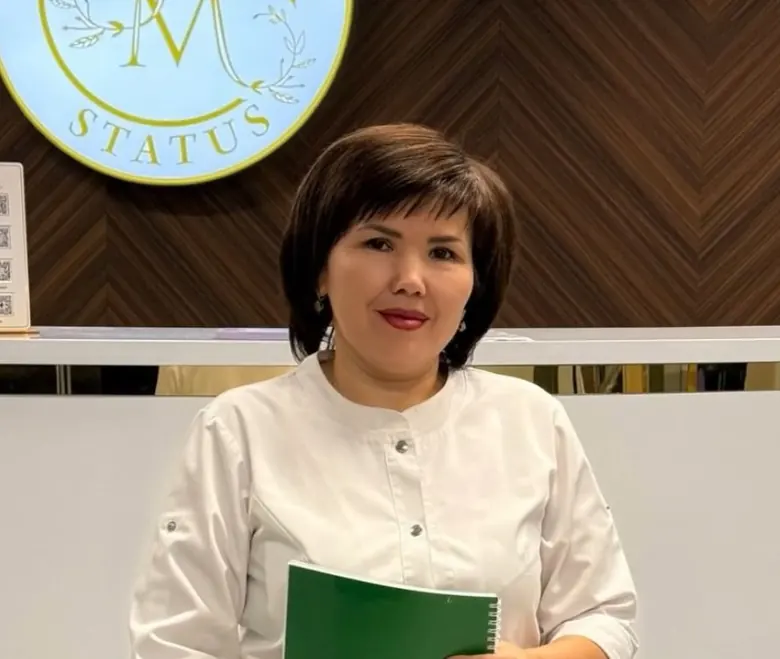
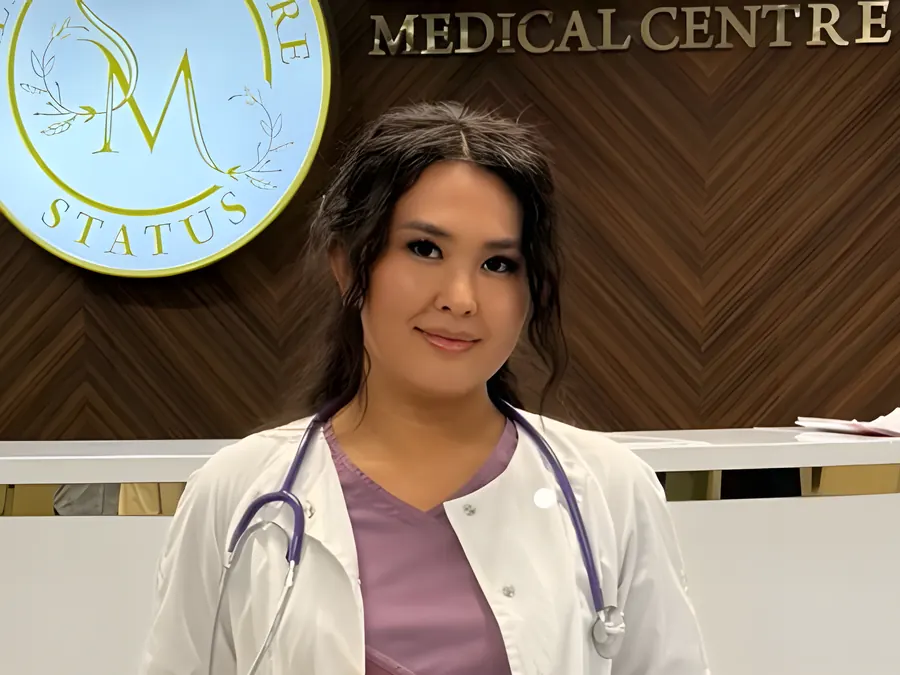
Герой главной про клинику: медицинский центр Status, размеры под высоту экрана, новое фото

diff --git a/index.html b/index.html
@@ -25,7 +25,7 @@
 <link rel="preconnect" href="https://fonts.googleapis.com">
 <link rel="preconnect" href="https://fonts.gstatic.com" crossorigin>
 <link href="https://fonts.googleapis.com/css2?family=Onest:wght@300;400;500;600&display=swap" rel="stylesheet">
-<link rel="stylesheet" href="styles.css?v=20261106-34">
+<link rel="stylesheet" href="styles.css?v=20261106-38">
 <script type="application/ld+json">
 {
  "@context": "https://schema.org",
@@ -131,23 +131,23 @@
 <section class="hero hero-chk on-dark">
   <picture class="hc-photo">
     <source media="(max-width:860px)" srcset="assets/photos/hero-doc-m.webp">
-    <img src="assets/photos/hero-doc.webp" alt="Елеубекова Асем Емелбековна, главный врач, кардиолог Status Medical Center" width="962" height="1202" fetchpriority="high" decoding="async">
+    <img src="assets/photos/hero-doc.webp" alt="Врач Status Medical Center у стойки регистрации с логотипом центра" width="1000" height="1250" fetchpriority="high" decoding="async">
   </picture>
   <div class="hc-shade"></div>
   <svg class="hc-ecg" viewBox="0 0 1200 120" preserveAspectRatio="none" aria-hidden="true"><path class="bg" d="M0 70 H330 l18 -8 l14 8 h40 l12 -48 l16 92 l14 -60 l10 16 h60 l22 -10 l20 10 H760 l18 -8 l14 8 h40 l12 -48 l16 92 l14 -60 l10 16 h60 l22 -10 l20 10 H1200"/><path class="fg" d="M0 70 H330 l18 -8 l14 8 h40 l12 -48 l16 92 l14 -60 l10 16 h60 l22 -10 l20 10 H760 l18 -8 l14 8 h40 l12 -48 l16 92 l14 -60 l10 16 h60 l22 -10 l20 10 H1200"/></svg>
   <div class="wrap hc-grid">
     <div class="hero-text">
-      <span class="kicker" data-i18n="h.kicker">Медицинский центр · Усть-Каменогорск</span>
-      <h1 class="split" data-i18n="h.h1">Чек-ап организма <em>за&nbsp;один день</em></h1>
-      <p class="hc-price" data-i18n="h.price">от&nbsp;25&nbsp;000&nbsp;₸ · врачи, УЗИ и&nbsp;анализы в&nbsp;одном здании</p>
+      <span class="kicker" data-i18n="h.kicker">Усть-Каменогорск · ул. Кокжал Барака, 19</span>
+      <h1 class="split" data-i18n="h.h1">Медицинский центр <em>Status</em></h1>
+      <p class="hc-price" data-i18n="h.price">Многопрофильная клиника в Усть-Каменогорске: врачи 27&nbsp;специальностей, диагностика, операционный блок и дневной стационар - в одном здании.</p>
       <ul class="hc-list">
-        <li><svg viewBox="0 0 24 24" width="18" height="18" fill="none" stroke="currentColor" stroke-width="2.6" aria-hidden="true"><path d="M5 12.5l4.5 4.5L19 7.5"/></svg><span data-i18n="h.b1">Состав и цена каждой программы открыты</span></li>
-        <li><svg viewBox="0 0 24 24" width="18" height="18" fill="none" stroke="currentColor" stroke-width="2.6" aria-hidden="true"><path d="M5 12.5l4.5 4.5L19 7.5"/></svg><span data-i18n="h.b2">ЭКГ и биометрия - в подарок к программе</span></li>
-        <li><svg viewBox="0 0 24 24" width="18" height="18" fill="none" stroke="currentColor" stroke-width="2.6" aria-hidden="true"><path d="M5 12.5l4.5 4.5L19 7.5"/></svg><span data-i18n="h.b3">Kaspi рассрочка 0-3-6-12&nbsp;месяцев</span></li>
+        <li><svg viewBox="0 0 24 24" width="18" height="18" fill="none" stroke="currentColor" stroke-width="2.6" aria-hidden="true"><path d="M5 12.5l4.5 4.5L19 7.5"/></svg><span data-i18n="h.b1">Два УЗИ-аппарата экспертного класса и видеоэндоскопия</span></li>
+        <li><svg viewBox="0 0 24 24" width="18" height="18" fill="none" stroke="currentColor" stroke-width="2.6" aria-hidden="true"><path d="M5 12.5l4.5 4.5L19 7.5"/></svg><span data-i18n="h.b2">Свой операционный блок и дневной стационар</span></li>
+        <li><svg viewBox="0 0 24 24" width="18" height="18" fill="none" stroke="currentColor" stroke-width="2.6" aria-hidden="true"><path d="M5 12.5l4.5 4.5L19 7.5"/></svg><span data-i18n="h.b3">Рейтинг 4,3 в 2ГИС - 384 оценки</span></li>
       </ul>
       <div class="hero-btns">
-        <a class="btn gold wa" href="https://wa.me/77052221462" data-wa="Здравствуйте. Хочу записаться на чек-ап. Подскажите ближайшую дату."><svg class="ic" aria-hidden="true"><use href="#ic-wa"/></svg><span data-i18n="h.btn5">Записаться на чек-ап</span></a>
-        <a class="btn ghost" href="#chekap" data-i18n="h.btn6">Все программы и цены</a>
+        <a class="btn gold wa" href="https://wa.me/77052221462" data-wa="Здравствуйте. Хочу записаться в Status Medical Center."><svg class="ic" aria-hidden="true"><use href="#ic-wa"/></svg><span data-i18n="h.btn1">Записаться в WhatsApp</span></a>
+        <a class="btn ghost" href="#napravleniya" data-i18n="h.btn7">Направления и цены</a>
       </div>
       <a class="hero-ig link" href="https://www.instagram.com/status_medical_center" target="_blank" rel="noopener"><svg class="ic" aria-hidden="true"><use href="#ic-ig"/></svg><span data-i18n="h.ig">Клиника и врачи в Instagram →</span></a>
     </div>
@@ -155,54 +155,10 @@
 
   <div class="hc-side">
     <div class="hc-stack" id="hcStack">
-      <span class="hc-stack-k" data-i18n="h.stk">Программы чек-апа</span>
-      <ol><li><a href="#chekap"><span data-i18n="c.1t">«Здоровое сердце» за 1 день</span><b class="num">25&nbsp;000&nbsp;₸</b></a></li><li><a href="#chekap"><span data-i18n="c.2t">«Щитовидка без тревог»</span><b class="num">47&nbsp;400&nbsp;₸</b></a></li><li><a href="#chekap"><span data-i18n="c.3t">Check-up Гастро</span><b class="num">73&nbsp;620&nbsp;₸</b></a></li><li><a href="#chekap"><span data-i18n="c.4t">Check-up Детский</span><b class="num">107&nbsp;780&nbsp;₸</b></a></li><li><a href="#chekap"><span data-i18n="c.5t">«В здоровом теле - здоровый дух», для женщин</span><b class="num">156&nbsp;100&nbsp;₸</b></a></li><li><a href="#chekap"><span data-i18n="c.6t">«В здоровом теле - здоровый дух», для мужчин</span><b class="num">186&nbsp;900&nbsp;₸</b></a></li></ol>
+      <span class="hc-stack-k" data-i18n="h.stk2">В центре</span>
+      <ol><li><a href="#priem"><span data-i18n="d.1t">Приём специалистов</span><b class="num" data-i18n="d.1p">от&nbsp;8&nbsp;000&nbsp;₸</b></a></li><li><a href="#uzi"><span data-i18n="d.2t">УЗИ</span><b class="num" data-i18n="d.2p">от&nbsp;4&nbsp;000&nbsp;₸</b></a></li><li><a href="#diagnostika"><span data-i18n="d.3t">Функциональная диагностика</span><b class="num" data-i18n="d.3p">от&nbsp;3&nbsp;000&nbsp;₸</b></a></li><li><a href="#endoskopiya"><span data-i18n="d.4t">Эндоскопия</span><b class="num" data-i18n="d.4p">от&nbsp;21&nbsp;000&nbsp;₸</b></a></li><li><a href="#stacionar"><span data-i18n="d.12t">Дневной стационар</span><b class="num">5&nbsp;000-25&nbsp;000&nbsp;₸</b></a></li><li><a href="plastika/"><span data-i18n="d.9t">Пластическая хирургия</span><b class="num" data-i18n="d.9p">от&nbsp;150&nbsp;000&nbsp;₸</b></a></li><li><a href="pohudenie/"><span data-i18n="d.10t">Программа снижения веса</span><b class="num" data-i18n="d.10p">от&nbsp;55&nbsp;000&nbsp;₸</b></a></li></ol>
     </div>
-    <span class="hc-tag" data-i18n="h.tag">Елеубекова А.&nbsp;Е., главный врач, кардиолог</span>
-  </div>
-</section>
-
-<!-- ЧЕК-АП -->
-<section class="sec stone" id="chekap">
-  <div class="wrap">
-    <div class="sec-head rv">
-      <span class="kicker" data-i18n="c.k">Чек-ап</span>
-      <h2 data-i18n="c.h2">Чек-ап программы: обследование <em>за один визит</em></h2>
-      <p class="lead" data-i18n="c.lead">Состав и цена каждой программы открыты. ЭКГ и биометрия - в подарок к программе. Подготовка: ужин накануне до&nbsp;20:00, утром натощак, без алкоголя за сутки.</p>
-    </div>
-    <div class="g3">
-      <article class="room-card hi" id="serdce"><div class="wall"></div><i class="door"></i>
-        <div class="card-top"><h3 data-i18n="c.1t">«Здоровое сердце» за 1 день</h3><span class="price num">25&nbsp;000&nbsp;₸</span></div>
-        <ul class="compose one"><li data-i18n="c.1a">Консультация кардиолога</li><li data-i18n="c.1b">УЗИ сердца</li><li data-i18n="c.1c">ЭКГ</li></ul>
-        <a class="btn gold wa sm" href="https://wa.me/77052221462" data-wa="Здравствуйте. Хочу записаться на чек-ап «Здоровое сердце за 1 день». Подскажите ближайшую дату."><svg class="ic" aria-hidden="true"><use href="#ic-wa"/></svg><span data-i18n="c.btn">Записаться на чек-ап</span></a>
-      </article>
-      <article class="room-card"><div class="wall"></div><i class="door"></i>
-        <div class="card-top"><h3 data-i18n="c.2t">«Щитовидка без тревог»</h3><span class="price num">47&nbsp;400&nbsp;₸</span></div>
-        <ul class="compose"><li data-i18n="c.2a">Первичный прием эндокринолога</li><li data-i18n="c.2b">УЗИ щитовидной железы</li><li data-i18n="c.2c">Биометрия</li><li data-i18n="c.2d">Тиреотропного гормона (ТТГ)</li><li data-i18n="c.2e">Свободный тироксин (FT4)</li><li data-i18n="c.2f">Антитела к тиреопероксидазе (Анти-ТПО)</li><li data-i18n="c.2g">Ферритин</li><li data-i18n="c.2h">Клинический анализ крови с лейкоцитарной формулой и измерением скорости оседания эритроцитов (ОАК + СОЭ)</li><li data-i18n="c.2i">25-OH витамин D</li><li data-i18n="c.2j">Забор крови</li><li data-i18n="c.2k">ЭКГ</li></ul>
-        <a class="btn wa sm" href="https://wa.me/77052221462" data-wa="Здравствуйте. Хочу записаться на чек-ап «Щитовидка без тревог». Подскажите ближайшую дату."><svg class="ic" aria-hidden="true"><use href="#ic-wa"/></svg><span data-i18n="c.btn">Записаться на чек-ап</span></a>
-      </article>
-      <article class="room-card"><div class="wall"></div><i class="door"></i>
-        <div class="card-top"><h3 data-i18n="c.3t">Check-up Гастро</h3><span class="price num">73&nbsp;620&nbsp;₸</span></div>
-        <ul class="compose"><li data-i18n="c.3a">УЗИ органов брюшной полости (комплекс)</li><li data-i18n="c.3b">ФГДС</li><li data-i18n="c.3c">Первичный прием гастроэнтеролога</li><li data-i18n="c.3d">Первичный прием терапевта</li><li data-i18n="c.3e">Развёрнутый общий анализ крови с СОЭ</li><li data-i18n="c.3f">Аланинаминотрансфераза (АЛТ)</li><li data-i18n="c.3g">АСТ</li><li data-i18n="c.3h">Общий билирубин</li><li data-i18n="c.3i">Щелочная фосфотаза</li><li data-i18n="c.3j">Общая альфа-амилаза</li><li data-i18n="c.3k">Липаза</li><li data-i18n="c.3l">Хеликобактер при ФГДС</li><li data-i18n="c.3m">Забор крови</li><li data-i18n="c.3n">Глюкоза (сахар крови)</li><li data-i18n="c.3o">Биометрия</li></ul>
-        <a class="btn wa sm" href="https://wa.me/77052221462" data-wa="Здравствуйте. Хочу записаться на чек-ап «Check-up Гастро». Подскажите ближайшую дату."><svg class="ic" aria-hidden="true"><use href="#ic-wa"/></svg><span data-i18n="c.btn">Записаться на чек-ап</span></a>
-      </article>
-      <article class="room-card"><div class="wall"></div><i class="door"></i>
-        <div class="card-top"><h3 data-i18n="c.4t">Check-up Детский</h3><span class="price num">107&nbsp;780&nbsp;₸</span></div>
-        <ul class="compose"><li data-i18n="c.4a">ОАК с СОЭ</li><li data-i18n="c.4b">ОАМ</li><li data-i18n="c.4c">Ферритин</li><li data-i18n="c.4d">Забор крови</li><li data-i18n="c.4e">25 ОН Витамин D</li><li data-i18n="c.4f">ТТГ</li><li data-i18n="c.4g">УЗИ ОБП</li><li data-i18n="c.4h">УЗИ щитовидной железы</li><li data-i18n="c.4i">1 прием лора</li><li data-i18n="c.4j">1 прием детского хирурга</li><li data-i18n="c.4k">1 прием детского гинеколога/уролога</li><li data-i18n="c.4l">1 прием логопеда</li><li data-i18n="c.4m">ЭКГ</li><li data-i18n="c.4n">Педиатр</li><li data-i18n="c.4o">Педиатр повторный прием</li><li data-i18n="c.4p">1 прием эндокринолога</li><li data-i18n="c.4q">Биометрия</li></ul>
-        <a class="btn wa sm" href="https://wa.me/77052221462" data-wa="Здравствуйте. Хочу записаться на чек-ап «Check-up Детский». Подскажите ближайшую дату."><svg class="ic" aria-hidden="true"><use href="#ic-wa"/></svg><span data-i18n="c.btn">Записаться на чек-ап</span></a>
-      </article>
-      <article class="room-card"><div class="wall"></div><i class="door"></i>
-        <div class="card-top"><h3 data-i18n="c.5t">«В здоровом теле - здоровый дух», для женщин</h3><span class="price num">156&nbsp;100&nbsp;₸</span></div>
-        <ul class="compose"><li data-i18n="c.5a">Эхо-КГ</li><li data-i18n="c.5b">УЗДГ БЦА</li><li data-i18n="c.5c">УЗИ брюшной полости, малого таза, молочных и щитовидной желёз</li><li data-i18n="c.5d">ФГДС с определением Helicobacter</li><li data-i18n="c.5e">Анализы</li><li data-i18n="c.5f">Консультации гинеколога, невролога, онколога-маммолога, эндокринолога, терапевта</li><li data-i18n="c.5g">ЭКГ и биометрия в подарок</li></ul>
-        <a class="btn wa sm" href="https://wa.me/77052221462" data-wa="Здравствуйте. Хочу записаться на чек-ап «В здоровом теле - здоровый дух, для женщин». Подскажите ближайшую дату."><svg class="ic" aria-hidden="true"><use href="#ic-wa"/></svg><span data-i18n="c.btn">Записаться на чек-ап</span></a>
-      </article>
-      <article class="room-card"><div class="wall"></div><i class="door"></i>
-        <div class="card-top"><h3 data-i18n="c.6t">«В здоровом теле - здоровый дух», для мужчин</h3><span class="price num">186&nbsp;900&nbsp;₸</span></div>
-        <ul class="compose"><li data-i18n="c.6a">Тот же состав, вместо гинеколога и маммолога - УЗИ простаты, ПСА, консультации уролога и хирурга</li><li data-i18n="c.5g">ЭКГ и биометрия в подарок</li></ul>
-        <a class="btn wa sm" href="https://wa.me/77052221462" data-wa="Здравствуйте. Хочу записаться на чек-ап «В здоровом теле - здоровый дух, для мужчин». Подскажите ближайшую дату."><svg class="ic" aria-hidden="true"><use href="#ic-wa"/></svg><span data-i18n="c.btn">Записаться на чек-ап</span></a>
-      </article>
-    </div>
-    <p class="note" data-i18n="c.note">Платные программы - для неприкреплённого населения. Прикреплённые пациенты обслуживаются по ОСМС и ГОБМП.</p>
+    <span class="hc-tag" data-i18n="h.tag">Кенесова Мөлдір Қайратқызы, эндокринолог</span>
   </div>
 </section>
 
@@ -299,6 +255,50 @@
         <a class="btn sm wa" href="https://wa.me/77052221462" data-wa="Здравствуйте. Хочу записаться: дневной стационар. Подскажите свободное время."><svg class="ic" aria-hidden="true"><use href="#ic-wa"/></svg><span data-i18n="d.btn">Записаться</span></a>
       </article>
     </div>
+  </div>
+</section>
+
+<!-- ЧЕК-АП -->
+<section class="sec stone" id="chekap">
+  <div class="wrap">
+    <div class="sec-head rv">
+      <span class="kicker" data-i18n="c.k">Чек-ап</span>
+      <h2 data-i18n="c.h2">Чек-ап программы: обследование <em>за один визит</em></h2>
+      <p class="lead" data-i18n="c.lead">Состав и цена каждой программы открыты. ЭКГ и биометрия - в подарок к программе. Подготовка: ужин накануне до&nbsp;20:00, утром натощак, без алкоголя за сутки.</p>
+    </div>
+    <div class="g3">
+      <article class="room-card hi" id="serdce"><div class="wall"></div><i class="door"></i>
+        <div class="card-top"><h3 data-i18n="c.1t">«Здоровое сердце» за 1 день</h3><span class="price num">25&nbsp;000&nbsp;₸</span></div>
+        <ul class="compose one"><li data-i18n="c.1a">Консультация кардиолога</li><li data-i18n="c.1b">УЗИ сердца</li><li data-i18n="c.1c">ЭКГ</li></ul>
+        <a class="btn gold wa sm" href="https://wa.me/77052221462" data-wa="Здравствуйте. Хочу записаться на чек-ап «Здоровое сердце за 1 день». Подскажите ближайшую дату."><svg class="ic" aria-hidden="true"><use href="#ic-wa"/></svg><span data-i18n="c.btn">Записаться на чек-ап</span></a>
+      </article>
+      <article class="room-card"><div class="wall"></div><i class="door"></i>
+        <div class="card-top"><h3 data-i18n="c.2t">«Щитовидка без тревог»</h3><span class="price num">47&nbsp;400&nbsp;₸</span></div>
+        <ul class="compose"><li data-i18n="c.2a">Первичный прием эндокринолога</li><li data-i18n="c.2b">УЗИ щитовидной железы</li><li data-i18n="c.2c">Биометрия</li><li data-i18n="c.2d">Тиреотропного гормона (ТТГ)</li><li data-i18n="c.2e">Свободный тироксин (FT4)</li><li data-i18n="c.2f">Антитела к тиреопероксидазе (Анти-ТПО)</li><li data-i18n="c.2g">Ферритин</li><li data-i18n="c.2h">Клинический анализ крови с лейкоцитарной формулой и измерением скорости оседания эритроцитов (ОАК + СОЭ)</li><li data-i18n="c.2i">25-OH витамин D</li><li data-i18n="c.2j">Забор крови</li><li data-i18n="c.2k">ЭКГ</li></ul>
+        <a class="btn wa sm" href="https://wa.me/77052221462" data-wa="Здравствуйте. Хочу записаться на чек-ап «Щитовидка без тревог». Подскажите ближайшую дату."><svg class="ic" aria-hidden="true"><use href="#ic-wa"/></svg><span data-i18n="c.btn">Записаться на чек-ап</span></a>
+      </article>
+      <article class="room-card"><div class="wall"></div><i class="door"></i>
+        <div class="card-top"><h3 data-i18n="c.3t">Check-up Гастро</h3><span class="price num">73&nbsp;620&nbsp;₸</span></div>
+        <ul class="compose"><li data-i18n="c.3a">УЗИ органов брюшной полости (комплекс)</li><li data-i18n="c.3b">ФГДС</li><li data-i18n="c.3c">Первичный прием гастроэнтеролога</li><li data-i18n="c.3d">Первичный прием терапевта</li><li data-i18n="c.3e">Развёрнутый общий анализ крови с СОЭ</li><li data-i18n="c.3f">Аланинаминотрансфераза (АЛТ)</li><li data-i18n="c.3g">АСТ</li><li data-i18n="c.3h">Общий билирубин</li><li data-i18n="c.3i">Щелочная фосфотаза</li><li data-i18n="c.3j">Общая альфа-амилаза</li><li data-i18n="c.3k">Липаза</li><li data-i18n="c.3l">Хеликобактер при ФГДС</li><li data-i18n="c.3m">Забор крови</li><li data-i18n="c.3n">Глюкоза (сахар крови)</li><li data-i18n="c.3o">Биометрия</li></ul>
+        <a class="btn wa sm" href="https://wa.me/77052221462" data-wa="Здравствуйте. Хочу записаться на чек-ап «Check-up Гастро». Подскажите ближайшую дату."><svg class="ic" aria-hidden="true"><use href="#ic-wa"/></svg><span data-i18n="c.btn">Записаться на чек-ап</span></a>
+      </article>
+      <article class="room-card"><div class="wall"></div><i class="door"></i>
+        <div class="card-top"><h3 data-i18n="c.4t">Check-up Детский</h3><span class="price num">107&nbsp;780&nbsp;₸</span></div>
+        <ul class="compose"><li data-i18n="c.4a">ОАК с СОЭ</li><li data-i18n="c.4b">ОАМ</li><li data-i18n="c.4c">Ферритин</li><li data-i18n="c.4d">Забор крови</li><li data-i18n="c.4e">25 ОН Витамин D</li><li data-i18n="c.4f">ТТГ</li><li data-i18n="c.4g">УЗИ ОБП</li><li data-i18n="c.4h">УЗИ щитовидной железы</li><li data-i18n="c.4i">1 прием лора</li><li data-i18n="c.4j">1 прием детского хирурга</li><li data-i18n="c.4k">1 прием детского гинеколога/уролога</li><li data-i18n="c.4l">1 прием логопеда</li><li data-i18n="c.4m">ЭКГ</li><li data-i18n="c.4n">Педиатр</li><li data-i18n="c.4o">Педиатр повторный прием</li><li data-i18n="c.4p">1 прием эндокринолога</li><li data-i18n="c.4q">Биометрия</li></ul>
+        <a class="btn wa sm" href="https://wa.me/77052221462" data-wa="Здравствуйте. Хочу записаться на чек-ап «Check-up Детский». Подскажите ближайшую дату."><svg class="ic" aria-hidden="true"><use href="#ic-wa"/></svg><span data-i18n="c.btn">Записаться на чек-ап</span></a>
+      </article>
+      <article class="room-card"><div class="wall"></div><i class="door"></i>
+        <div class="card-top"><h3 data-i18n="c.5t">«В здоровом теле - здоровый дух», для женщин</h3><span class="price num">156&nbsp;100&nbsp;₸</span></div>
+        <ul class="compose"><li data-i18n="c.5a">Эхо-КГ</li><li data-i18n="c.5b">УЗДГ БЦА</li><li data-i18n="c.5c">УЗИ брюшной полости, малого таза, молочных и щитовидной желёз</li><li data-i18n="c.5d">ФГДС с определением Helicobacter</li><li data-i18n="c.5e">Анализы</li><li data-i18n="c.5f">Консультации гинеколога, невролога, онколога-маммолога, эндокринолога, терапевта</li><li data-i18n="c.5g">ЭКГ и биометрия в подарок</li></ul>
+        <a class="btn wa sm" href="https://wa.me/77052221462" data-wa="Здравствуйте. Хочу записаться на чек-ап «В здоровом теле - здоровый дух, для женщин». Подскажите ближайшую дату."><svg class="ic" aria-hidden="true"><use href="#ic-wa"/></svg><span data-i18n="c.btn">Записаться на чек-ап</span></a>
+      </article>
+      <article class="room-card"><div class="wall"></div><i class="door"></i>
+        <div class="card-top"><h3 data-i18n="c.6t">«В здоровом теле - здоровый дух», для мужчин</h3><span class="price num">186&nbsp;900&nbsp;₸</span></div>
+        <ul class="compose"><li data-i18n="c.6a">Тот же состав, вместо гинеколога и маммолога - УЗИ простаты, ПСА, консультации уролога и хирурга</li><li data-i18n="c.5g">ЭКГ и биометрия в подарок</li></ul>
+        <a class="btn wa sm" href="https://wa.me/77052221462" data-wa="Здравствуйте. Хочу записаться на чек-ап «В здоровом теле - здоровый дух, для мужчин». Подскажите ближайшую дату."><svg class="ic" aria-hidden="true"><use href="#ic-wa"/></svg><span data-i18n="c.btn">Записаться на чек-ап</span></a>
+      </article>
+    </div>
+    <p class="note" data-i18n="c.note">Платные программы - для неприкреплённого населения. Прикреплённые пациенты обслуживаются по ОСМС и ГОБМП.</p>
   </div>
 </section>
 
@@ -748,6 +748,6 @@
 <script src="assets/vendor/ScrollTrigger.min.js"></script>
 <script src="assets/vendor/SplitText.min.js"></script>
 <script src="assets/vendor/lenis.min.js"></script>
-<script src="script.js?v=20261106-34"></script>
+<script src="script.js?v=20261106-38"></script>
 </body>
 </html>

diff --git a/assets/lang/kk.js b/assets/lang/kk.js
@@ -8,8 +8,8 @@ window.SITE_KK = {
   "nav.ct": "Байланыс",
   "hdr.btn": "Жазылу",
   "hdr.btn2": "WhatsApp арқылы жазылу",
-  "h.kicker": "Медициналық орталық · Өскемен",
-  "h.h1": "Ағза чек-апы <em>бір&nbsp;күнде</em>",
+  "h.kicker": "Өскемен · Көкжал Барақ көшесі, 19",
+  "h.h1": "Медициналық орталық <em>Status</em>",
   "h.lead": "27&nbsp;мамандықтың дәрігерлері, УДЗ, ЭКГ, талдаулар және эндоскопия - Көкжал Барақ, 19 мекенжайындағы бір ғимаратта.<span class=\"lead-tail\"> WhatsApp арқылы жазылу - жауап <span class=\"nw\">15-20&nbsp;минутта</span>.</span>",
   "h.btn1": "WhatsApp арқылы жазылу",
   "h.btn2": "Бір күндік чек-ап",
@@ -252,12 +252,14 @@ window.SITE_KK = {
   "hv.4x": "Орталық кардиологы",
   "hv.5t": "Дәрігер қорытындысы",
   "hv.5x": "Сол күні",
-  "h.price": "25&nbsp;000&nbsp;₸-ден · дәрігерлер, УДЗ және талдаулар бір ғимаратта",
-  "h.b1": "Әр бағдарламаның құрамы мен бағасы ашық",
-  "h.b2": "ЭКГ және биометрия - бағдарламаға сыйлық",
-  "h.b3": "Kaspi бөліп төлеу 0-3-6-12&nbsp;ай",
+  "h.price": "Өскемендегі көпбейінді клиника: 27&nbsp;мамандықтың дәрігерлері, диагностика, операциялық блок және күндізгі стационар - бір ғимаратта.",
+  "h.b1": "Екі сарапшы деңгейлі УДЗ аппараты және бейнеэндоскопия",
+  "h.b2": "Өз операциялық блогы және күндізгі стационары",
+  "h.b3": "2ГИС рейтингі 4,3 - 384 баға",
   "h.btn5": "Чек-апқа жазылу",
   "h.btn6": "Барлық бағдарламалар мен бағалар",
   "h.stk": "Чек-ап бағдарламалары",
-  "h.tag": "Елеубекова А.&nbsp;Е., бас дәрігер, кардиолог"
+  "h.tag": "Кенесова Мөлдір Қайратқызы, эндокринолог",
+  "h.btn7": "Бағыттар мен бағалар",
+  "h.stk2": "Орталықта"
 };

diff --git a/styles.css b/styles.css
@@ -780,3 +780,23 @@ body.menu-open .burger i:nth-child(3){transform:translateY(-7px) rotate(-45deg)}
 @media (min-width:861px) and (max-height:820px){.hc-stack{display:none}}
 @media (min-width:861px){.hero-chk .hero-text{max-width:min(840px,calc(54vw - var(--pad)))}}
 @media (max-width:860px) and (max-height:700px){.hc-grid{margin-top:-6px}}
+/* герой про клинику: размеры от высоты окна, чтобы первый экран целиком влезал */
+.hero-chk{padding:clamp(24px,5vh,72px) 0}
+.hero-chk h1{font-size:clamp(38px,min(5.6vw,10vh),96px);margin-top:clamp(10px,1.6vh,18px)}
+.hc-price{margin-top:clamp(10px,1.8vh,18px);font-size:clamp(16px,min(1.35vw,2.3vh),20px);line-height:1.5;max-width:640px}
+.hc-list{margin-top:clamp(12px,2.2vh,22px);gap:clamp(6px,1.1vh,10px)}
+.hero-chk .hero-btns{margin-top:clamp(16px,3vh,28px)}
+.hero-chk .hero-ig{margin-top:clamp(10px,1.8vh,18px)}
+@media (min-width:861px) and (max-height:700px){.hc-list{display:none}}
+@media (max-width:860px){
+  .hc-photo{height:clamp(190px,30svh,300px)}
+  .hc-photo img{object-position:50% 18%}
+  .hero-chk h1{font-size:clamp(32px,9.6vw,44px)}
+  .hc-price{font-size:15px}
+  .hc-list li{font-size:14px}
+}
+@media (max-width:480px){.hc-list{display:none}}
+.hero-chk h1 .line{padding-top:.14em;margin-top:-.14em}
+@media (max-width:860px){.hero-chk{padding:0 0 calc(84px + env(safe-area-inset-bottom))}}
+@media (max-width:860px){.hc-photo{height:clamp(190px,46svh,400px)}.hc-ecg{display:none}}
+@media (max-width:860px) and (max-height:700px){.hc-photo{height:170px}}

diff --git a/plastika/index.html b/plastika/index.html
@@ -25,7 +25,7 @@
 <link rel="preconnect" href="https://fonts.googleapis.com">
 <link rel="preconnect" href="https://fonts.gstatic.com" crossorigin>
 <link href="https://fonts.googleapis.com/css2?family=Onest:wght@300;400;500;600&display=swap" rel="stylesheet">
-<link rel="stylesheet" href="../styles.css?v=20261106-34">
+<link rel="stylesheet" href="../styles.css?v=20261106-38">
 <script type="application/ld+json">
 [
  {
@@ -365,6 +365,6 @@
 <script src="../assets/vendor/ScrollTrigger.min.js"></script>
 <script src="../assets/vendor/SplitText.min.js"></script>
 <script src="../assets/vendor/lenis.min.js"></script>
-<script src="../script.js?v=20261106-34"></script>
+<script src="../script.js?v=20261106-38"></script>
 </body>
 </html>

diff --git a/pohudenie/index.html b/pohudenie/index.html
@@ -25,7 +25,7 @@
 <link rel="preconnect" href="https://fonts.googleapis.com">
 <link rel="preconnect" href="https://fonts.gstatic.com" crossorigin>
 <link href="https://fonts.googleapis.com/css2?family=Onest:wght@300;400;500;600&display=swap" rel="stylesheet">
-<link rel="stylesheet" href="../styles.css?v=20261106-34">
+<link rel="stylesheet" href="../styles.css?v=20261106-38">
 <script type="application/ld+json">
 [
  {
@@ -412,6 +412,6 @@
 <script src="../assets/vendor/ScrollTrigger.min.js"></script>
 <script src="../assets/vendor/SplitText.min.js"></script>
 <script src="../assets/vendor/lenis.min.js"></script>
-<script src="../script.js?v=20261106-34"></script>
+<script src="../script.js?v=20261106-38"></script>
 </body>
 </html>
